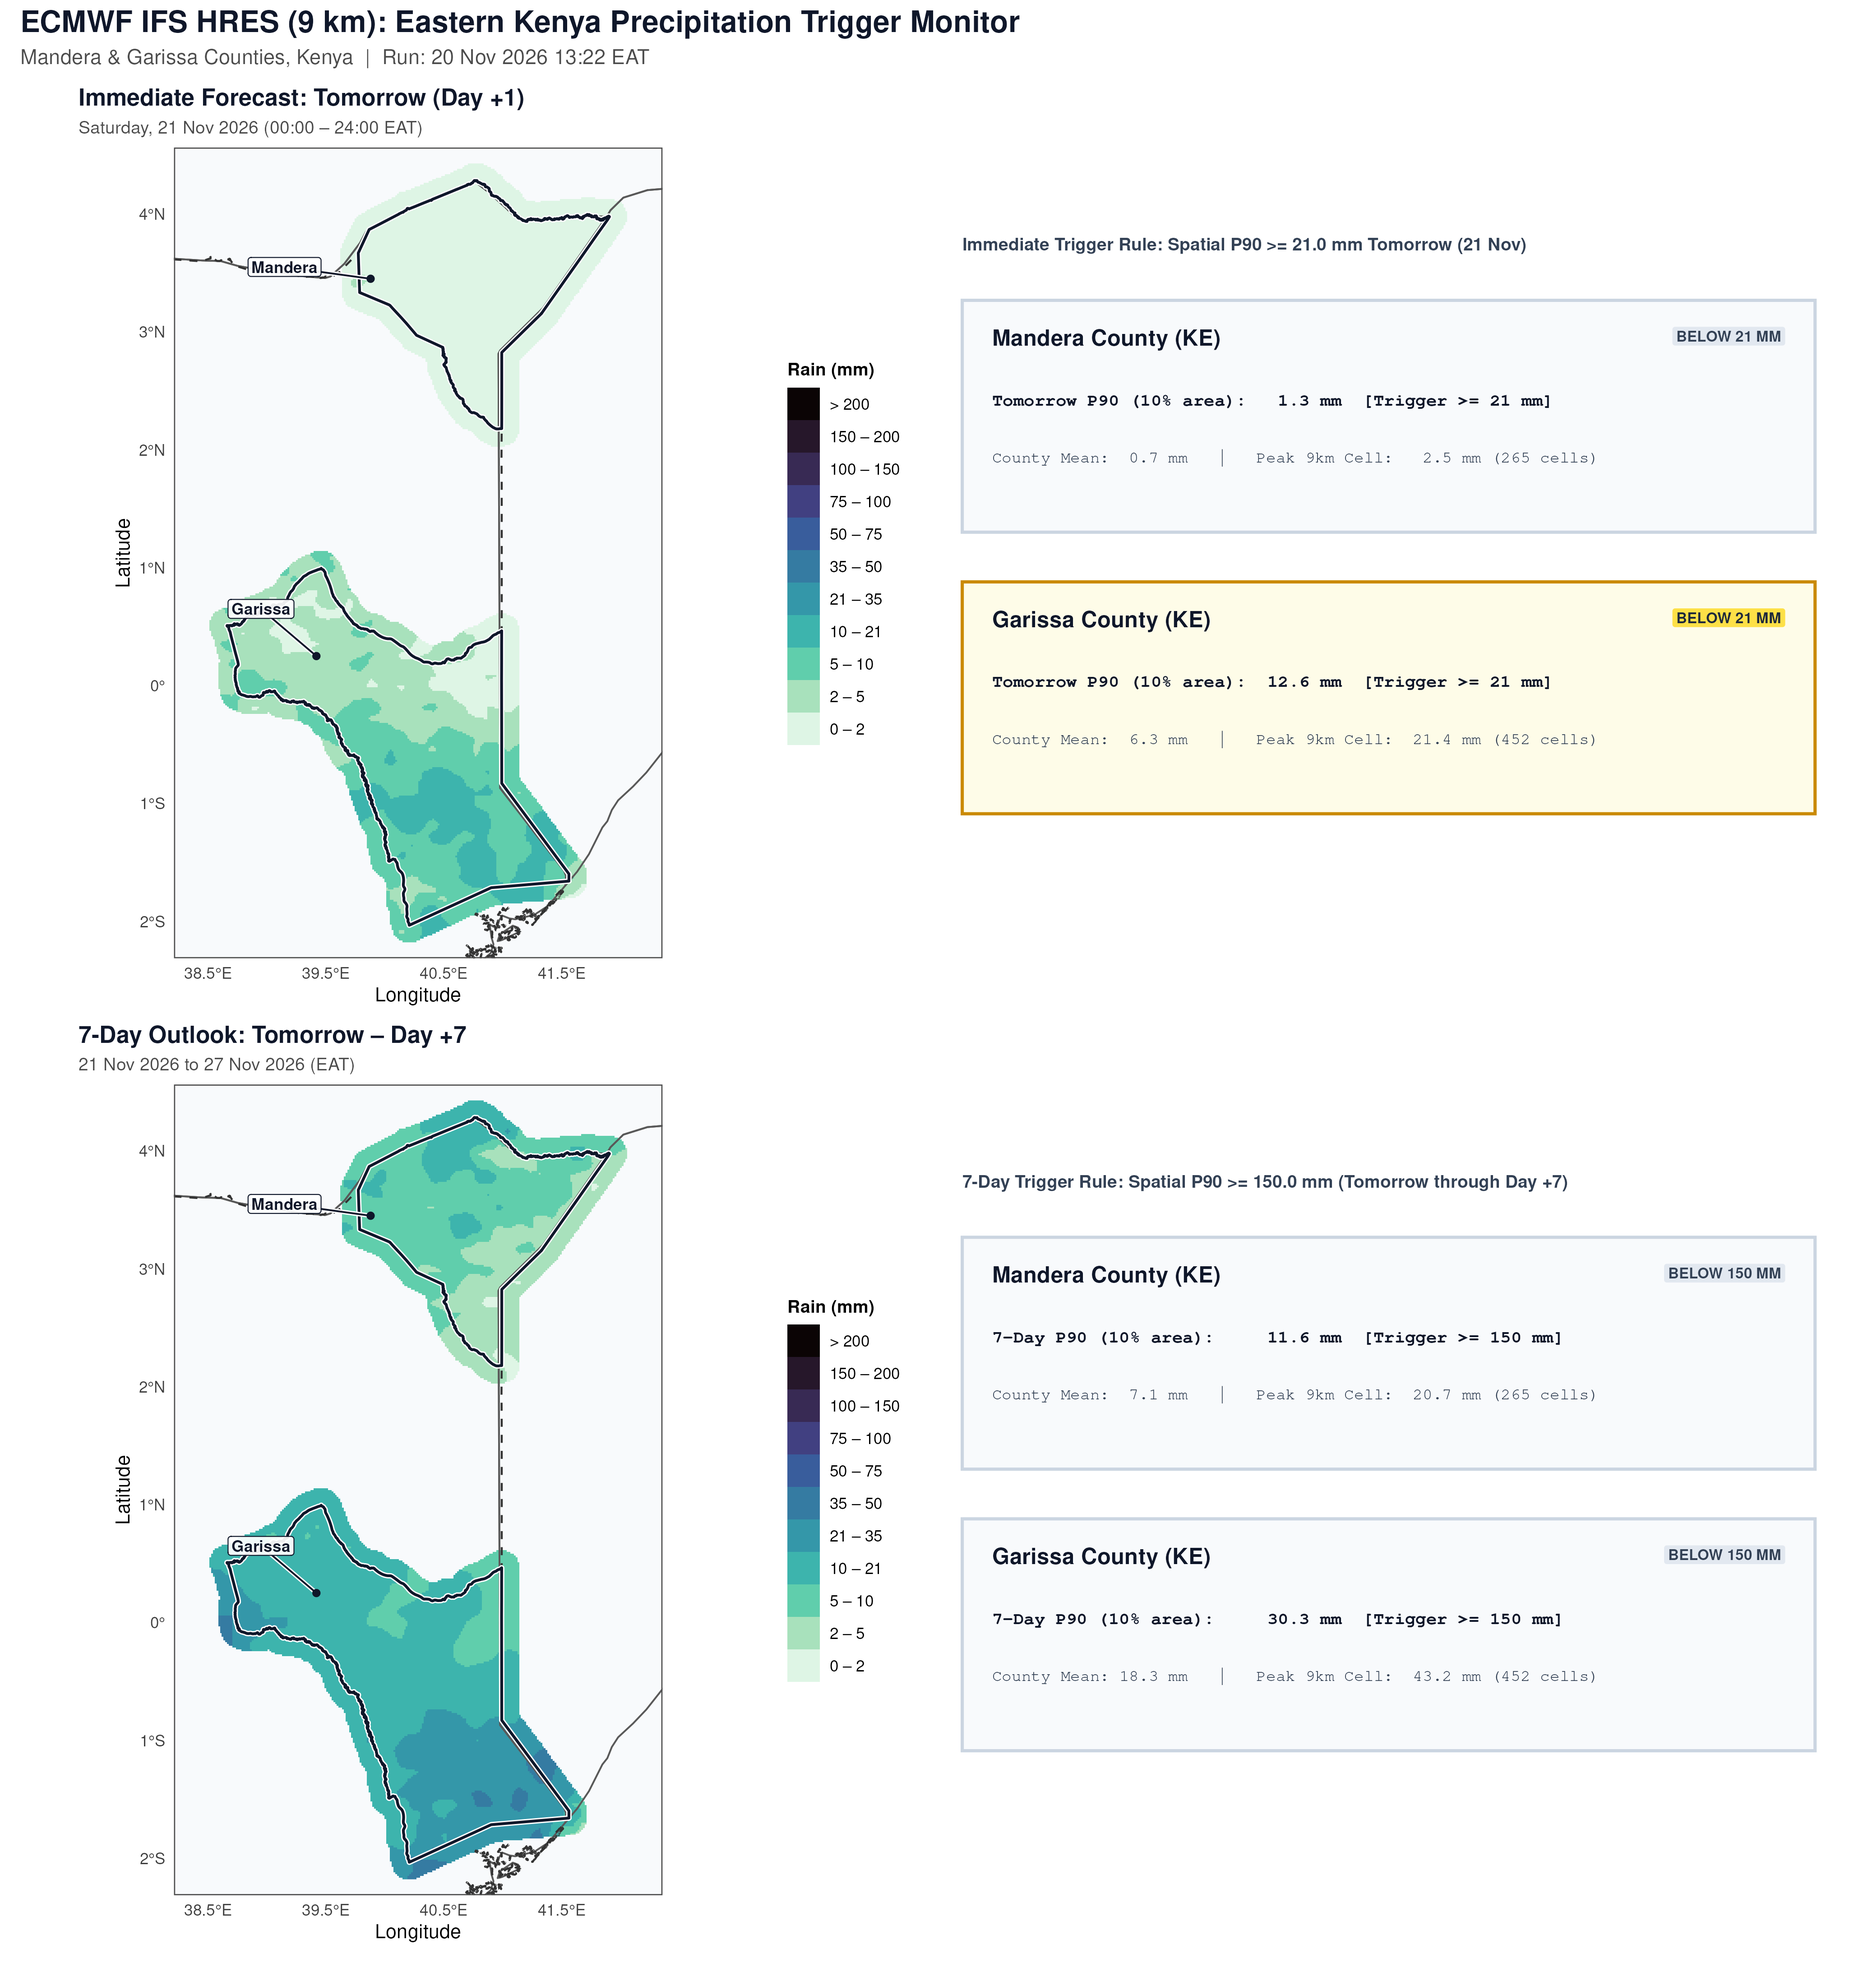
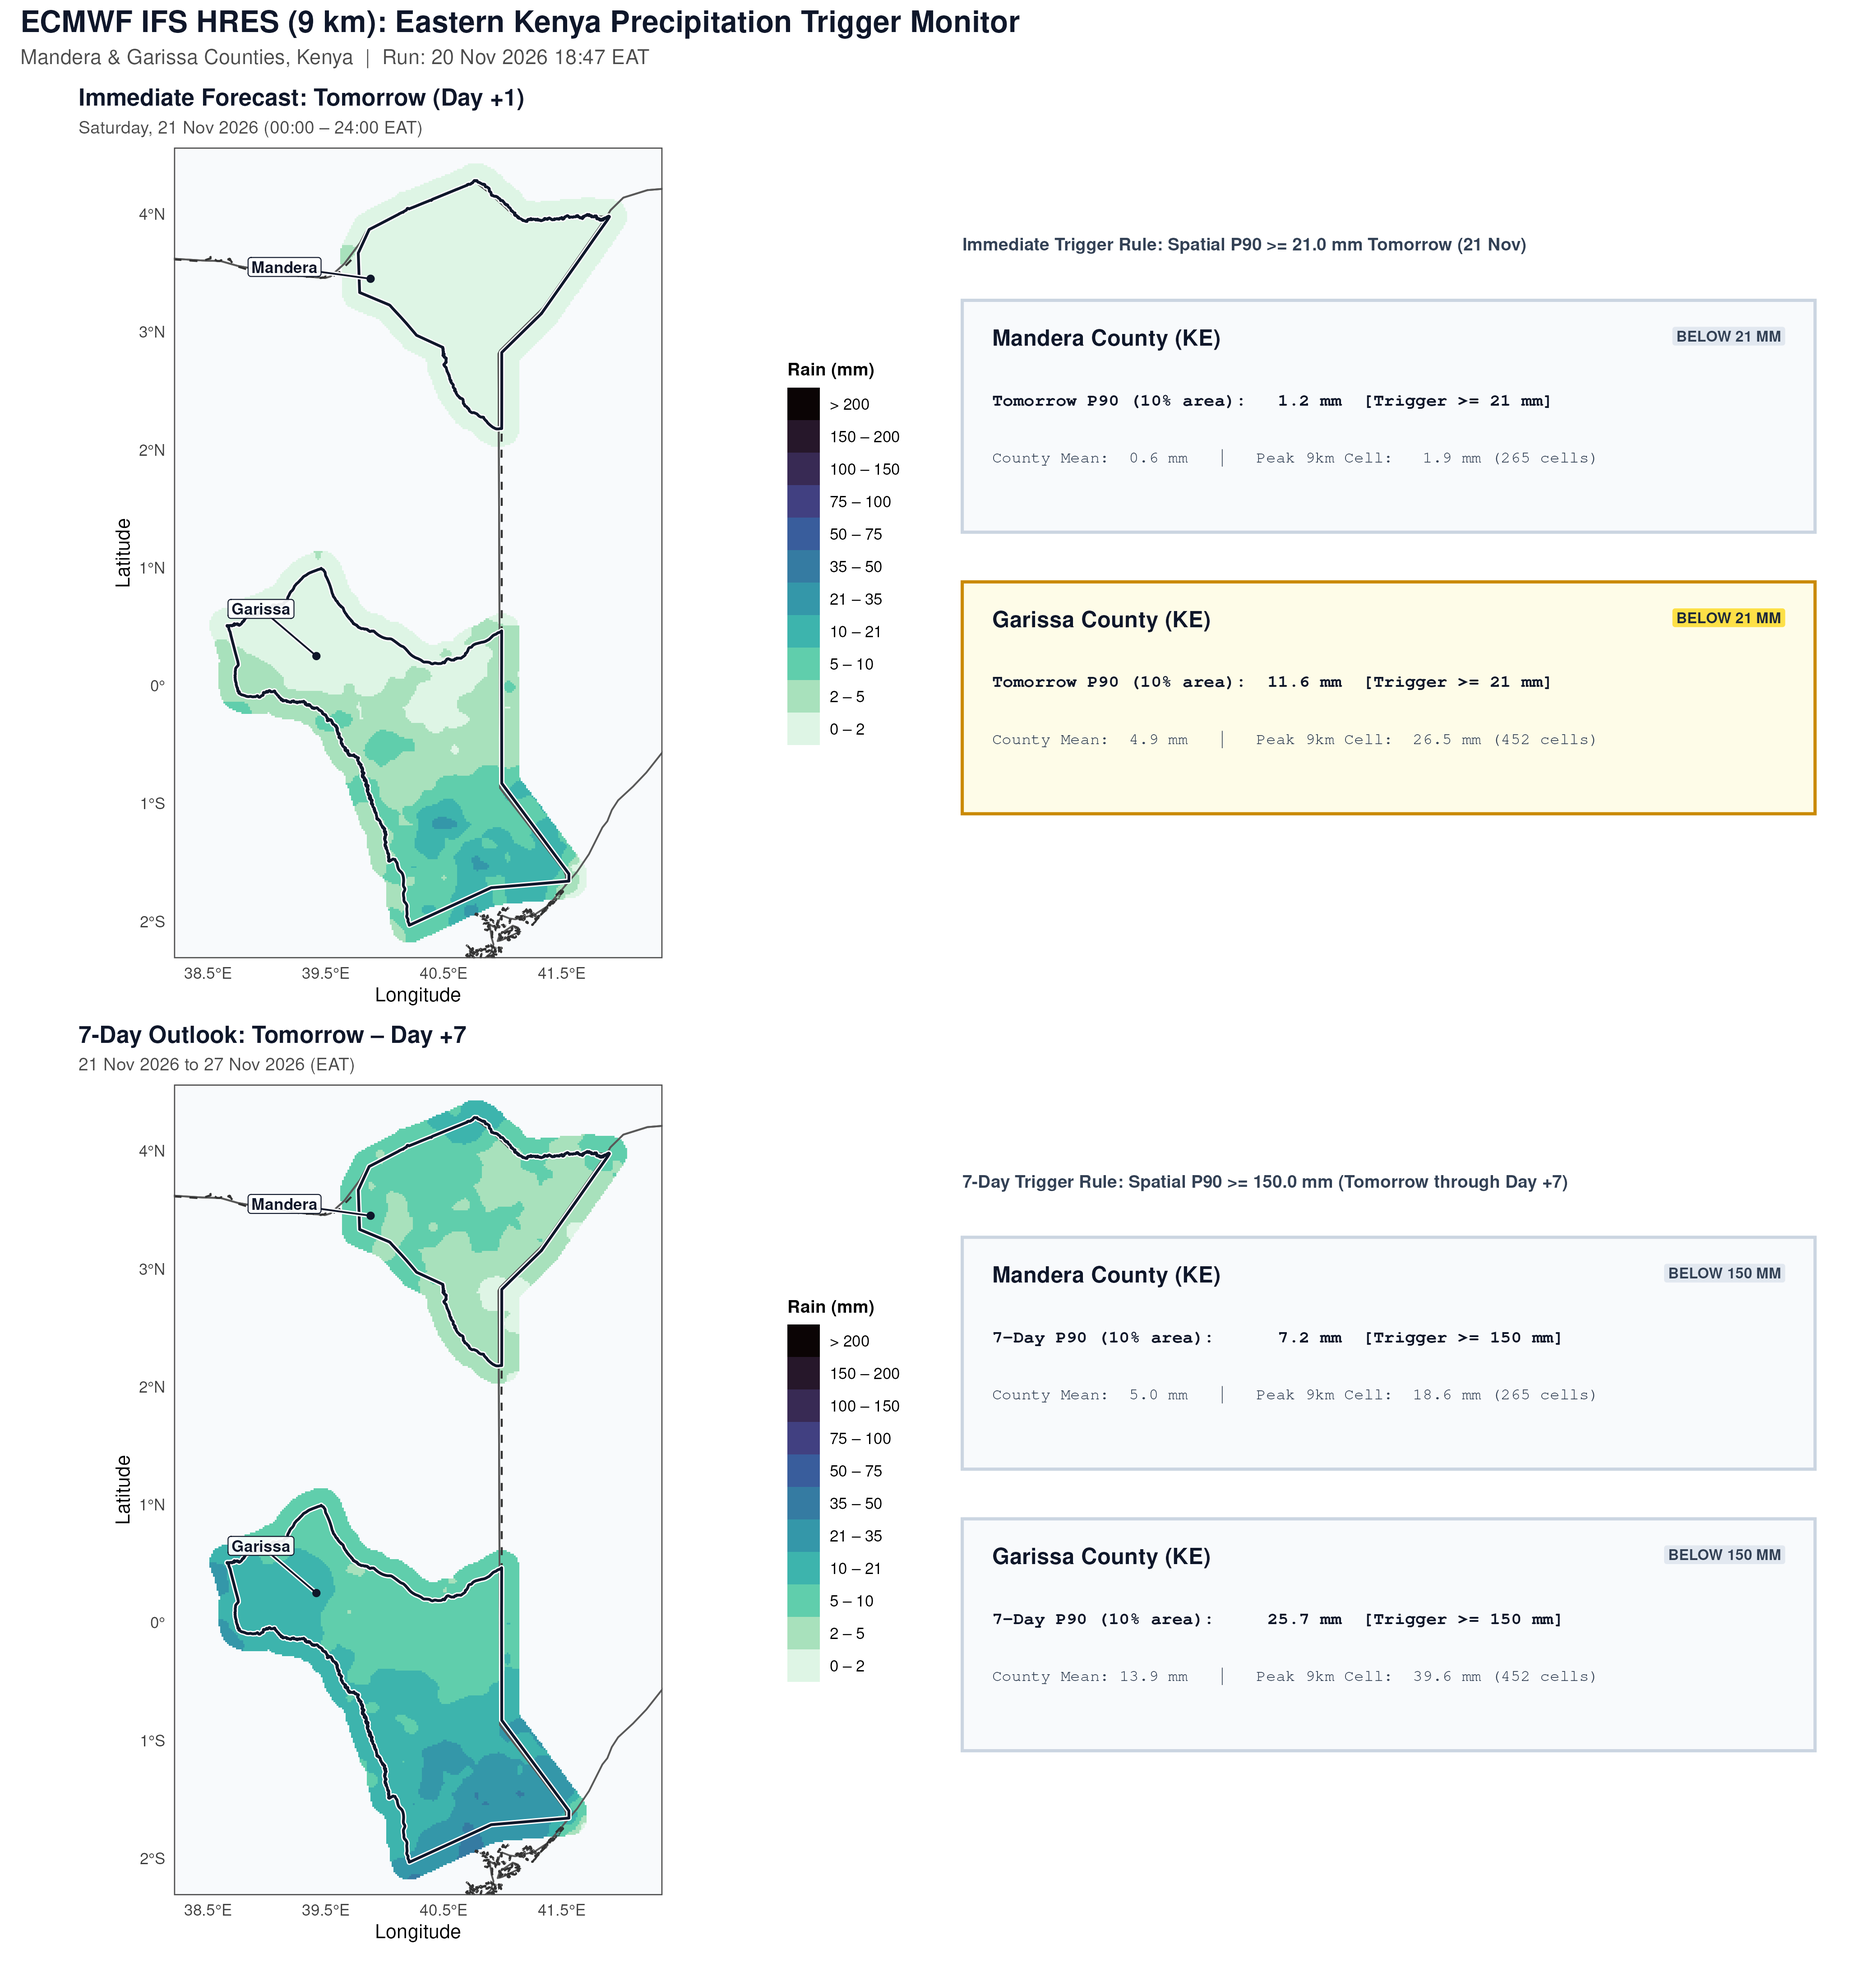
deploy: daacd3f731ed2b8d75df1fdd133b035ab1ab4faf

Changed region(s): [[0.0935, 0.2793, 0.3116, 0.4966], [0.0935, 0.7448, 0.3116, 0.9621], [0.187, 0.5586, 0.3116, 0.6828]]

diff --git a/eastern_kenya/index.html b/eastern_kenya/index.html
@@ -1,1 +1,1 @@
-<!DOCTYPE html><html><head><meta charset='utf-8'><title>Eastern Kenya Trigger Monitor (Mandera &amp; Garissa)</title><style>body{font-family:sans-serif;margin:24px;background:#F8FAFC;color:#0F172A;max-width:1280px;}img{width:100%;height:auto;border:1px solid #CBD5E1;border-radius:6px;background:white;}</style></head><body><h2>Eastern Kenya (Mandera &amp; Garissa) IFS HRES Trigger Dashboard</h2><p>Counties: Mandera &amp; Garissa (KE) | Thresholds: &ge; 21 mm (Tomorrow) / &ge; 150 mm (7-Day) | Last updated: 2026-11-20 13:22 EAT (10:22 UTC) | <a href='trigger_feed.xml'>RSS Trigger Feed</a></p><img src='eastern_kenya_ifs_hres_trigger_dashboard.png?v=1795170153' alt='Eastern Kenya Forecast Dashboard'/></body></html>
+<!DOCTYPE html><html><head><meta charset='utf-8'><title>Eastern Kenya Trigger Monitor (Mandera &amp; Garissa)</title><style>body{font-family:sans-serif;margin:24px;background:#F8FAFC;color:#0F172A;max-width:1280px;}img{width:100%;height:auto;border:1px solid #CBD5E1;border-radius:6px;background:white;}</style></head><body><h2>Eastern Kenya (Mandera &amp; Garissa) IFS HRES Trigger Dashboard</h2><p>Counties: Mandera &amp; Garissa (KE) | Thresholds: &ge; 21 mm (Tomorrow) / &ge; 150 mm (7-Day) | Last updated: 2026-11-20 18:47 EAT (15:47 UTC) | <a href='trigger_feed.xml'>RSS Trigger Feed</a></p><img src='eastern_kenya_ifs_hres_trigger_dashboard.png?v=1795189651' alt='Eastern Kenya Forecast Dashboard'/></body></html>
